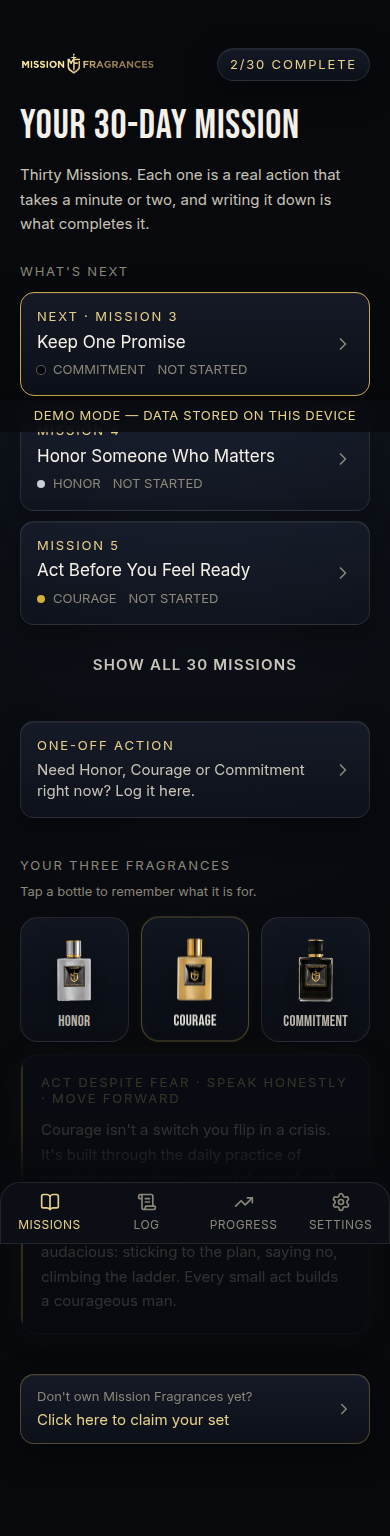
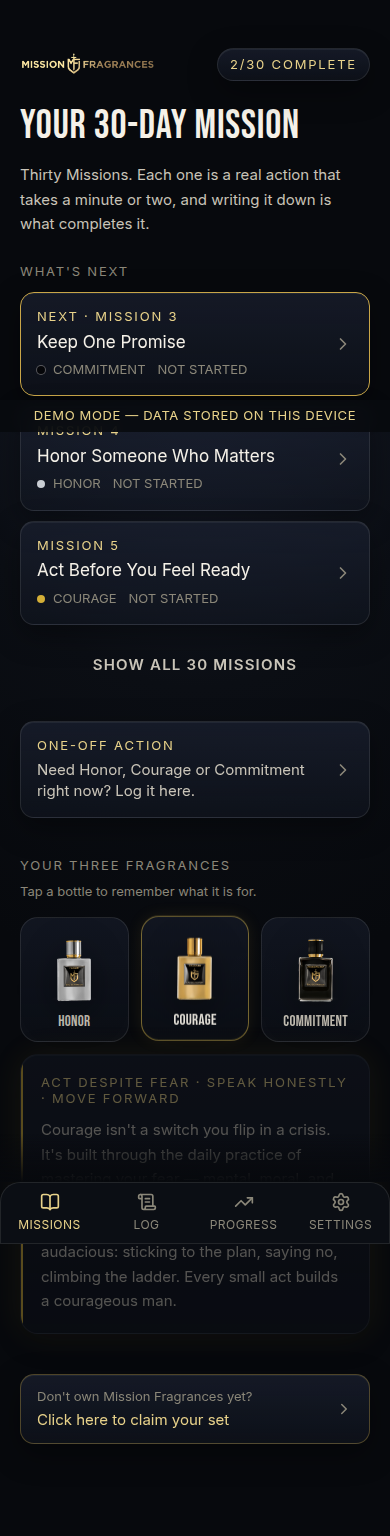
SPRAY THE ONE YOU NEED
Both tenses were wrong. "The fragrance you're wearing" assumes he already
sprayed; "the fragrance you'll wear" assumes he hasn't. This screen spans
both moments, so any tense is wrong half the time.

An imperative has no tense to be wrong about, and it earns its line twice
over: it names what the tiles are for, and it puts the T of S.T.A.R. back on
the screen he is standing on when he sprays — which nothing has said since
the spray line came out.

Claude-Session: https://claude.ai/code/session_01WVgj5E7JPb9xgPaaNWkVw6

diff --git a/src/components/FragranceCue.tsx b/src/components/FragranceCue.tsx
@@ -31,13 +31,15 @@ export default function FragranceCue({
 }) {
   return (
     <div className={className}>
-      <p className="eyebrow text-gold-300">
-        SELECT THE FRAGRANCE YOU&apos;RE WEARING
-      </p>
+      {/* Tenseless on purpose: "you're wearing" assumes he already sprayed,
+          "you'll wear" assumes he hasn't, and this screen spans both. An
+          imperative also puts the T of S.T.A.R. back on the screen where he
+          is standing when he sprays. */}
+      <p className="eyebrow text-gold-300">SPRAY THE ONE YOU NEED</p>
 
       <div
         role="radiogroup"
-        aria-label="Which fragrance are you wearing?"
+        aria-label="Which fragrance"
         className="mt-3 grid grid-cols-3 gap-2"
       >
         {TRIGGER_ORDER.map((trigger) => {

diff --git a/docs/HANDOFF.md b/docs/HANDOFF.md
@@ -19,7 +19,7 @@ states. The Vivid Vision is archived; its replacement is the compiled, printable
 
 - Owner: Antonio Centeno (product decisions). Team contact: Yuri.
 - Repo: https://github.com/aiexecutionaccelerator/mfapp (branch `main`)
-- Version: 2.5.0 (one input, one click)
+- Version: 2.5.1 (one input, one click)
 
 ## Architecture facts that matter
 
